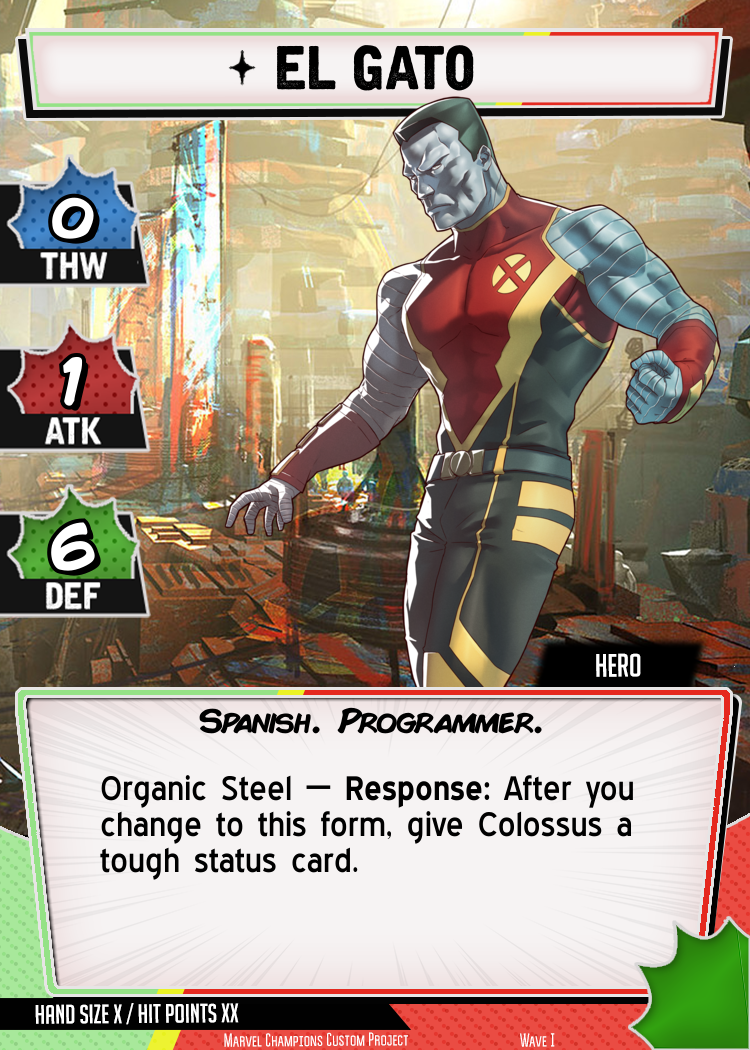
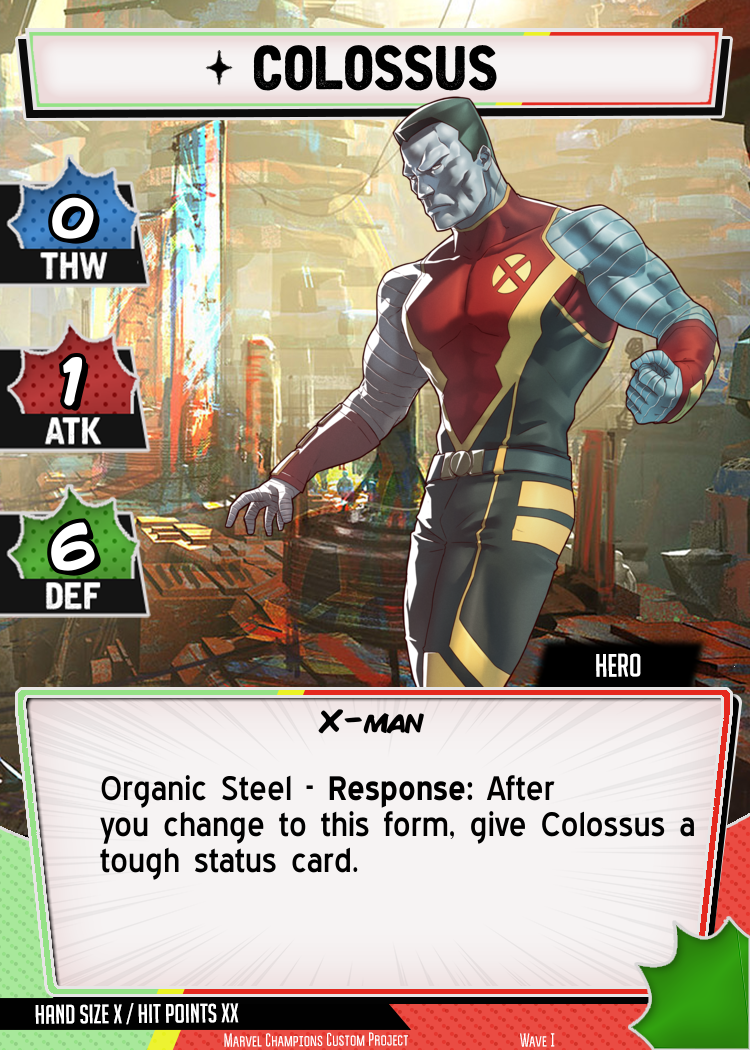
chore: back to colossus

diff --git a/server/api/cards/index.js b/server/api/cards/index.js
@@ -298,10 +298,10 @@ function writeStats(ctx, {
 
 async function generate(req, res, next) {
   const hero = new Hero({
-    title: 'el gato',
+    title: 'colossus',
     description: 'wakanda forever, dos',
     backgroundImage: '',
-    attributes: ['spanish', 'programmer'],
+    attributes: ['x-man'],
     type: 'hero',
     icon: '',
     setName: 'colossus',
@@ -309,7 +309,7 @@ async function generate(req, res, next) {
     thw: 0,
     atk: 1,
     def: 6,
-    effect: 'Organic Steel — **Response:** After you change to this form, give Colossus a tough status card.',
+    effect: 'Organic Steel - **Response:** After you change to this form, give Colossus a tough status card.',
     handSize: 4,
     hitPoints: 13,
   });
@@ -337,7 +337,7 @@ async function generate(req, res, next) {
     drawMultiLineText(ctx, {
       font: '33px "Blue Highway"',
       fillStyle: 'black',
-    }, hero.effect.split(' '), 100, 800, 825);
+    }, hero.effect.split(' '), 100, 800, 800);
 
     const targetPath = path.resolve(appRootDir.get(), 'cards', 'test.png');
 
